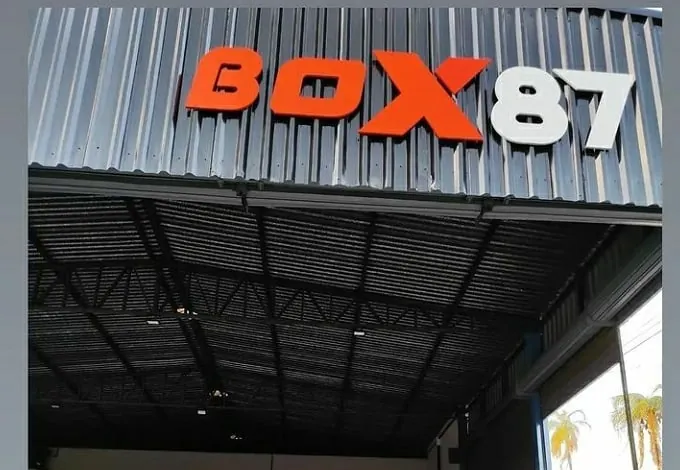
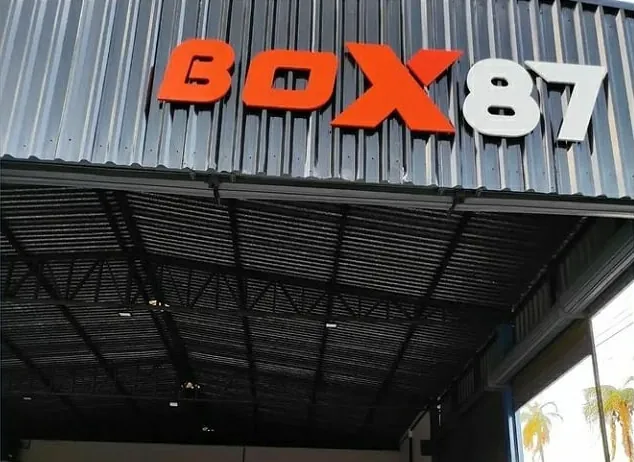
Corrige textos, fotos e fonte da página do Box 87 após a revisão
Achados confirmados pela revisão adversarial depois da publicação:
- tira "caminhonetes", que nenhuma fonte mostra; o título da coluna
  passa a "Carros e outros veículos";
- a revisão elétrica em plataforma de guincho sai de "Máquinas
  agrícolas" e vai para a coluna de veículos;
- "Válvula termostática do sistema de arrefecimento" e "Kits de
  lâmpadas LED para faróis", no limite do que os posts mostram;
- placa do carro desfocada na foto da capa e recorte da entrada da
  oficina sem a moldura cinza do story;
- Saira só com a face normal: o preload de fonte cai de cerca de
  215 KB para 99 KB; o h1 usa o oblíquo sintetizado;
- sizes da galeria por foto, "+" das perguntas fora do nome
  acessível, SVGs com uma casa decimal e alternateName com os nomes
  antigos da empresa;
- teste novo: todo rewrite para arquivo aponta para algo que existe
  em public.

diff --git a/src/app/box-87-auto-center/page.tsx b/src/app/box-87-auto-center/page.tsx
@@ -15,7 +15,8 @@ import s from "./pagina.module.css";
 const tipografia = Saira({
   subsets: ["latin"],
   axes: ["wdth"],
-  style: ["normal", "italic"],
+  // Só a face normal: o itálico dobrava o preload (cerca de 215 KB). O h1 usa o oblíquo sintetizado.
+  style: ["normal"],
   display: "swap",
   variable: "--box-fonte",
 });
@@ -47,29 +48,29 @@ const servicosCarros = [
   "Manutenção preventiva e corretiva",
   "Suspensão e troca da correia dentada",
   "Troca da junta de válvula e descarbonização da EGR",
-  "Sistema de arrefecimento, como a válvula termostática",
+  "Válvula termostática do sistema de arrefecimento",
   "Lavagem do motor",
-  "Faróis e lâmpadas de LED",
+  "Kits de lâmpadas LED para faróis",
   "Módulo para rebater os retrovisores e subir os vidros pelo alarme",
+  "Revisão elétrica em caminhão com plataforma de guincho",
 ];
 
 const servicosAgro = [
   "Parte elétrica de tratores e implementos",
   "Kits de iluminação para trator e graneleiro",
   "Manutenção de máquinas agrícolas",
-  "Revisão elétrica em veículos de trabalho, como plataforma de guincho",
 ];
 
 const fotos = [
   { src: "/teste-bateria.webp", largura: 720, altura: 540, legenda: "Teste de densidade da bateria", alt: "Densímetro medindo a carga de uma bateria automotiva na oficina" },
   { src: "/eletrica-trator.webp", largura: 504, altura: 378, legenda: "Revisão na parte elétrica de um trator", alt: "Chicote elétrico e motor de partida de um trator em manutenção" },
-  { src: "/oficina-entrada.webp", largura: 680, altura: 470, legenda: "A entrada da oficina, na Rua João Modesto", alt: "Fachada de metal do Box 87 com o letreiro laranja e cinza e o galpão da oficina aberto" },
+  { src: "/oficina-entrada.webp", largura: 634, altura: 462, legenda: "A entrada da oficina, na Rua João Modesto", alt: "Fachada de metal do Box 87 com o letreiro laranja e cinza e o galpão da oficina aberto" },
 ];
 
 const perguntas = [
   {
     pergunta: "O Box 87 atende máquinas agrícolas?",
-    resposta: "Sim. Além de carros e caminhonetes, a oficina cuida da parte elétrica e da manutenção de máquinas agrícolas, como tratores e implementos, e instala kits de iluminação. Para outra máquina, mande o modelo pelo WhatsApp e confirme o atendimento.",
+    resposta: "Sim. Além de carros, a oficina cuida da parte elétrica e da manutenção de máquinas agrícolas, como tratores e implementos, e instala kits de iluminação. Para outra máquina, mande o modelo pelo WhatsApp e confirme o atendimento.",
   },
   {
     pergunta: "Qual é o horário de funcionamento?",
@@ -85,12 +86,12 @@ const perguntas = [
   },
   {
     pergunta: "Vocês instalam iluminação de LED e acessórios?",
-    resposta: "Sim. A oficina troca faróis e lâmpadas por LED e instala acessórios como o módulo que rebate os retrovisores e sobe os vidros pelo alarme.",
+    resposta: "Sim. A oficina instala kits de lâmpadas LED nos faróis e acessórios como o módulo que rebate os retrovisores e sobe os vidros pelo alarme.",
   },
 ];
 
 const titulo = "Box 87 Auto Center em Piracanjuba | Elétrica e máquinas agrícolas";
-const descricao = "Auto center na Rua João Modesto, 12, em Piracanjuba (GO). Elétrica e manutenção de carros, caminhonetes e máquinas agrícolas. Horário e WhatsApp.";
+const descricao = "Auto center na Rua João Modesto, 12, em Piracanjuba (GO). Elétrica e manutenção de carros e máquinas agrícolas. Horário e WhatsApp para agendar.";
 const compartilhamento = {
   url: portal + imagens + "/compartilhar.jpg", width: 1200, height: 630,
   alt: "Logo do Box 87 Auto Center e a fachada da oficina em Piracanjuba ao entardecer",
@@ -112,7 +113,7 @@ const esquema = {
       mainEntity: { "@id": url + "#oficina" }, breadcrumb: { "@id": url + "#navegacao" },
     },
     {
-      "@type": "AutoRepair", "@id": url + "#oficina", name: nome, alternateName: "BOX 87", url,
+      "@type": "AutoRepair", "@id": url + "#oficina", name: nome, alternateName: ["BOX 87", "Box 87 Auto Elétrica", "BOX 87 Auto Elétrica e Acessórios"], url,
       mainEntityOfPage: { "@id": url + "#pagina" },
       description: "Auto center e auto elétrica com manutenção e parte elétrica de máquinas agrícolas em Piracanjuba (GO).",
       image: portal + imagens + "/fachada-entardecer.webp", logo: portal + imagens + "/box87-logo.svg",
@@ -168,7 +169,7 @@ export default function Box87AutoCenter() {
               <Image src={imagens + "/box87-logo.svg"} width={1459} height={510} alt="BOX 87 Auto Center e Manutenção em Máquinas Agrícolas"
                 className={s.logo} loading="eager" unoptimized />
               <h1>Auto center e elétrica de máquinas agrícolas em Piracanjuba</h1>
-              <p className={s.lide}>O Box 87 cuida da parte elétrica e da manutenção de carros, caminhonetes, tratores e implementos, na {endereco}. Conte pelo WhatsApp o modelo e o que está acontecendo e combine o melhor horário para levar.</p>
+              <p className={s.lide}>O Box 87 cuida da parte elétrica e da manutenção de carros, tratores e implementos, na {endereco}. Conte pelo WhatsApp o modelo e o que está acontecendo e combine o melhor horário para levar.</p>
               <div className={s.acoes}>
                 <a id={ID_BOTAO_TOPO} href={whatsapp} className={s.botao}><WhatsAppIcon fill="currentColor" /> Agendar pelo WhatsApp</a>
                 <a href={mapa} className={s.atalho}><Navigation size={16} aria-hidden="true" /> Como chegar</a>
@@ -200,7 +201,7 @@ export default function Box87AutoCenter() {
                   alt="Carro de capô aberto com faróis de LED acesos e a placa decorativa do Box 87"
                   sizes="(max-width: 900px) 89vw, 540px" />
               </div>
-              <h3 id="titulo-carros"><Car size={26} strokeWidth={1.8} aria-hidden="true" /> Carros e caminhonetes</h3>
+              <h3 id="titulo-carros"><Car size={26} strokeWidth={1.8} aria-hidden="true" /> Carros e outros veículos</h3>
               <ul className={s.lista}>
                 {servicosCarros.map((servico) => <li key={servico}>{servico}</li>)}
               </ul>
@@ -226,11 +227,13 @@ export default function Box87AutoCenter() {
         <div className={s.largura}>
           <h2 id="titulo-oficina">Na oficina</h2>
           <ul className={s.galeria}>
-            {fotos.map((foto) => (
+            {fotos.map((foto, i) => (
               <li key={foto.src}>
                 <figure>
                   <Image src={imagens + foto.src} width={foto.largura} height={foto.altura} alt={foto.alt}
-                    sizes="(max-width: 700px) 89vw, (max-width: 1150px) 30vw, 360px" />
+                    sizes={i === fotos.length - 1
+                      ? "(max-width: 900px) 89vw, (max-width: 1150px) 30vw, 360px"
+                      : "(max-width: 700px) 89vw, (max-width: 900px) 44vw, (max-width: 1150px) 30vw, 360px"} />
                   <figcaption>{foto.legenda}</figcaption>
                 </figure>
               </li>

diff --git a/tests/sitemap-rotas.test.ts b/tests/sitemap-rotas.test.ts
@@ -1,5 +1,5 @@
 import assert from "node:assert/strict";
-import { readdirSync, readFileSync } from "node:fs";
+import { existsSync, readdirSync, readFileSync } from "node:fs";
 import { join, relative, sep } from "node:path";
 import { fileURLToPath } from "node:url";
 import test from "node:test";
@@ -121,6 +121,18 @@ function rotaExiste(rota: string): boolean {
   const abas: readonly string[] = aba[1] === "camara" ? ABAS_CAMARA : ABAS_PREFEITURA;
   return abas.includes(aba[2]);
 }
+
+// Rewrite de imagem antiga (cartão de compartilhamento de prévia que virou página própria):
+// o destino precisa existir em public/, senão o cartão que circula no WhatsApp quebra em silêncio.
+test("todo rewrite para um arquivo aponta para um arquivo que existe em public", async () => {
+  const rewrites = await nextConfig.rewrites?.();
+  const lista = Array.isArray(rewrites) ? rewrites : [...(rewrites?.beforeFiles ?? []), ...(rewrites?.afterFiles ?? []), ...(rewrites?.fallback ?? [])];
+  const deArquivo = lista.filter(({ destination }) => /\.[a-z0-9]+$/i.test(destination));
+  assert.ok(deArquivo.length > 0);
+  for (const { source, destination } of deArquivo) {
+    assert.ok(existsSync(join(RAIZ, "public", destination)), `${source} reescreve para ${destination}, que não existe em public`);
+  }
+});
 
 test("os redirects permanentes de next.config.ts são os de REDIRECIONAMENTOS_PERMANENTES", async () => {
   const redirects = (await nextConfig.redirects?.()) ?? [];

diff --git a/src/data/llms.ts b/src/data/llms.ts
@@ -334,7 +334,7 @@ export const SECOES_LLMS: SecaoLlms[] = [
       {
         caminho: "/box-87-auto-center",
         titulo: "Box 87 Auto Center em Piracanjuba",
-        descricao: "Auto center e auto elétrica na Rua João Modesto, 12, Setor Norte. Elétrica e manutenção de carros e caminhonetes, parte elétrica e iluminação de tratores e implementos, horário e WhatsApp para agendar.",
+        descricao: "Auto center e auto elétrica na Rua João Modesto, 12, Setor Norte. Elétrica e manutenção de carros, parte elétrica e iluminação de tratores e implementos, horário e WhatsApp para agendar.",
       },
       {
         caminho: "/naraienemarquesadv",

diff --git a/src/app/box-87-auto-center/pagina.module.css b/src/app/box-87-auto-center/pagina.module.css
@@ -213,6 +213,8 @@
 .listaPerguntas summary::-webkit-details-marker { display: none; }
 .listaPerguntas summary::after {
   content: "+";
+  /* Texto alternativo vazio: o "+" não entra no nome que o leitor de tela anuncia. */
+  content: "+" / "";
   position: absolute;
   right: 8px;
   top: 50%;
